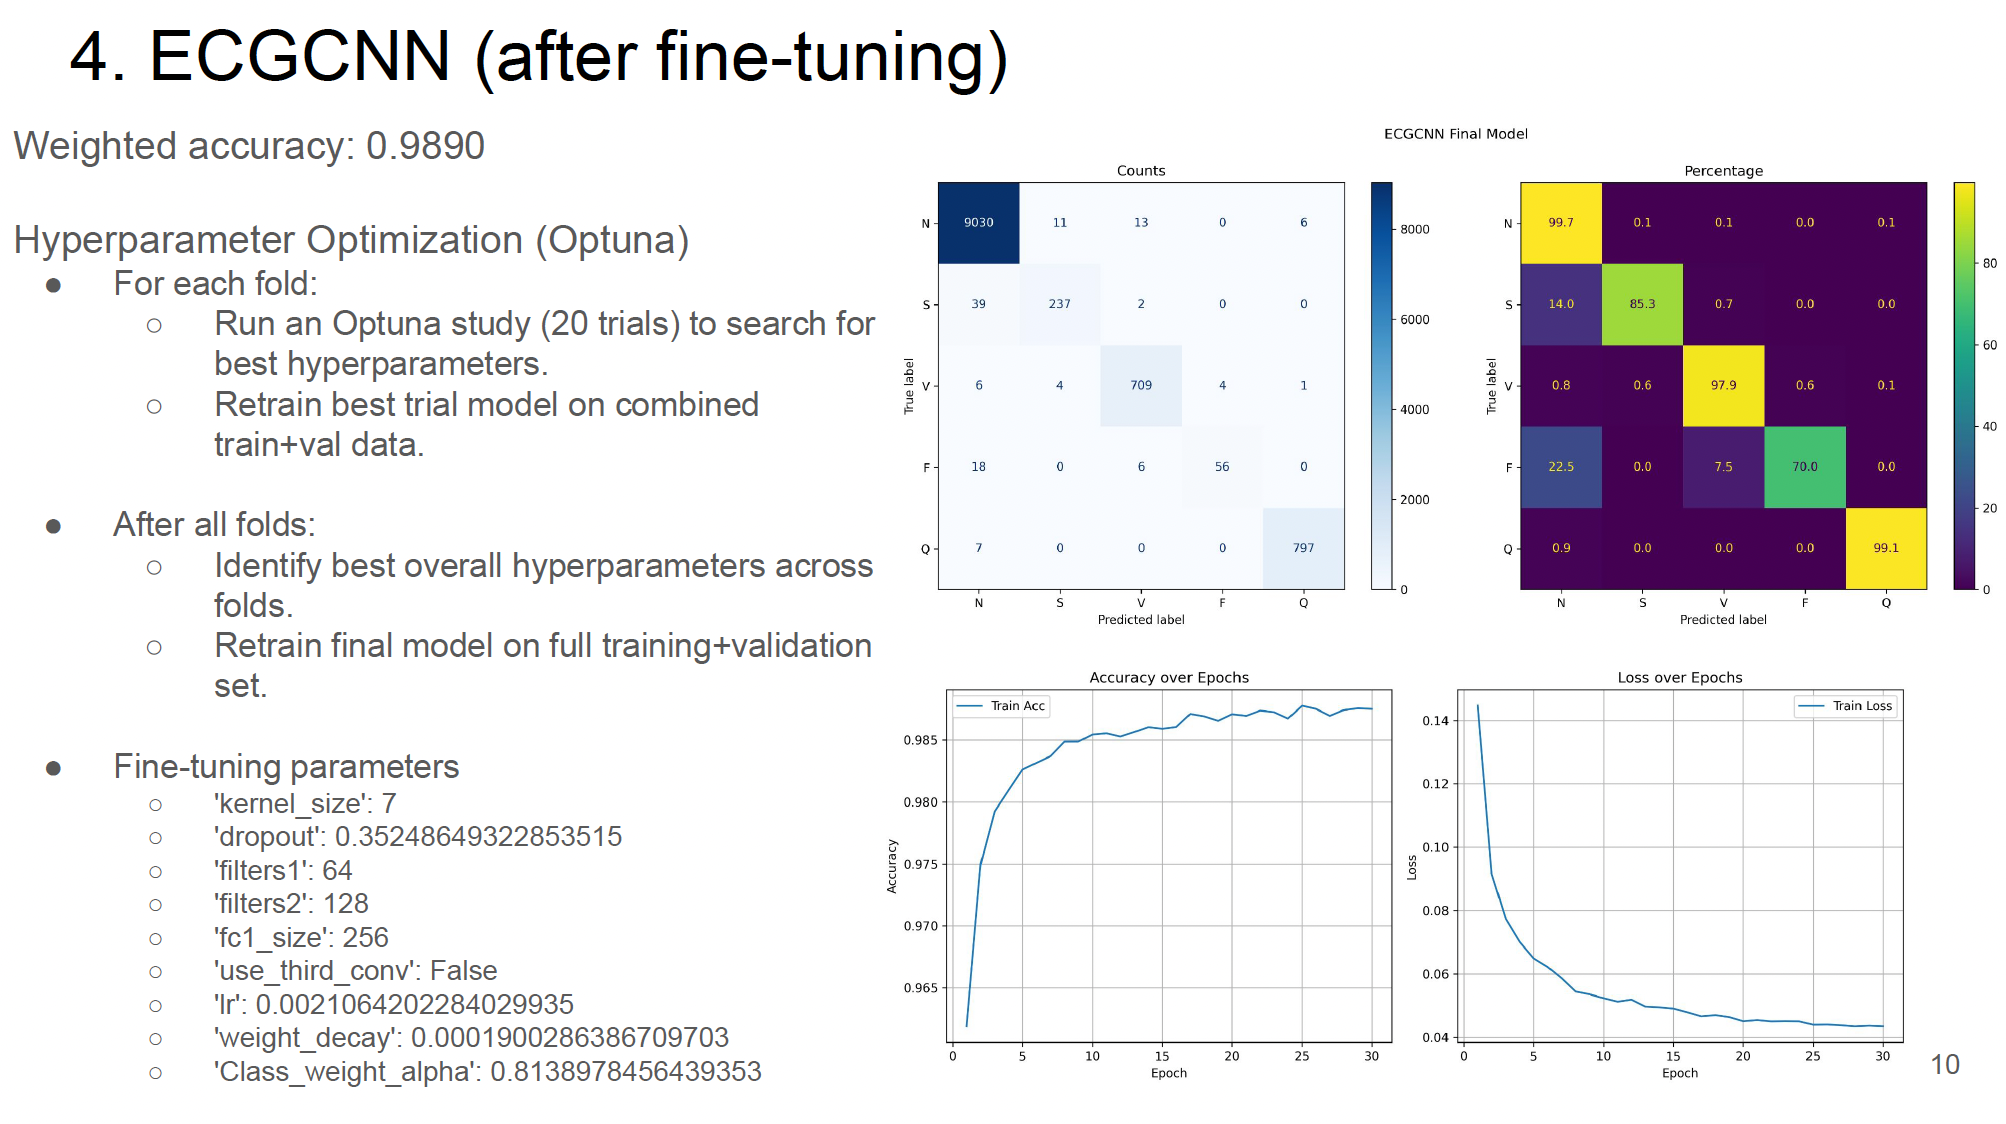
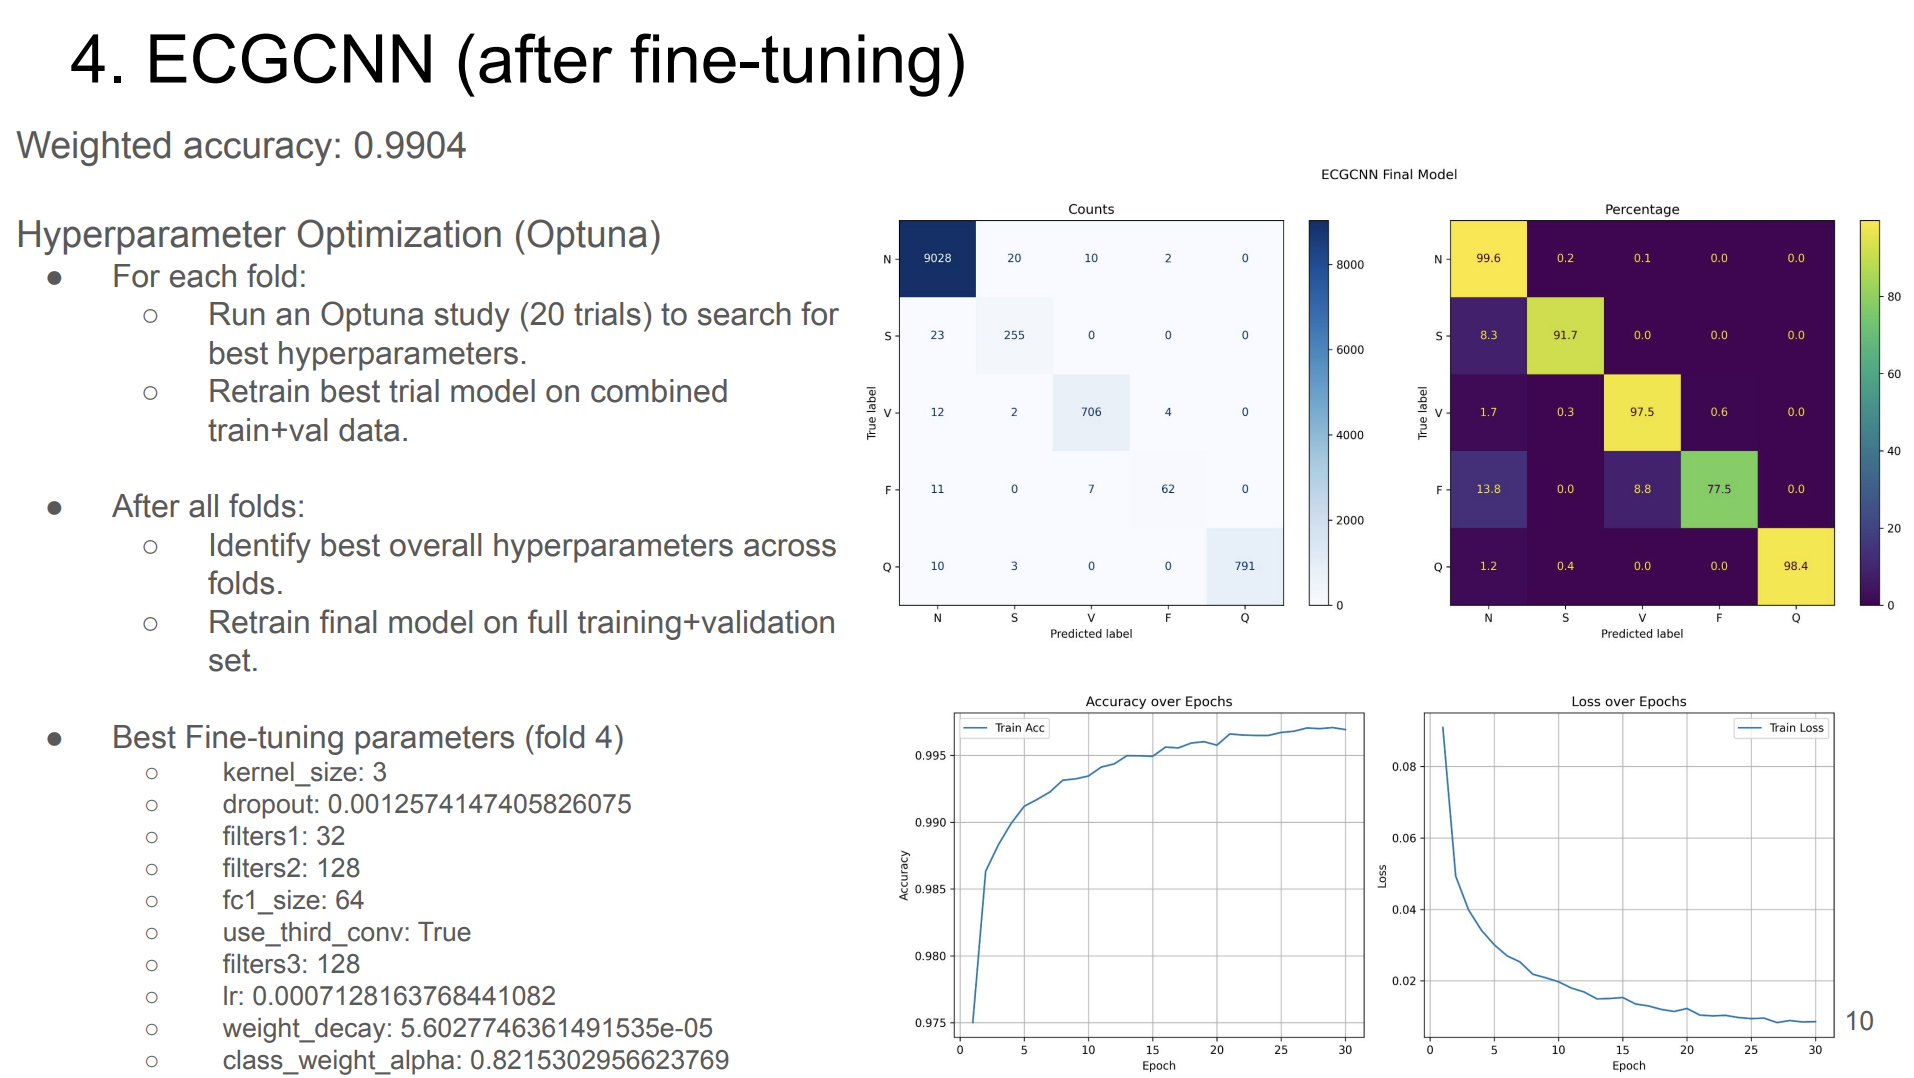
update the slides

diff --git a/mitbih/utils/config.py b/mitbih/utils/config.py
@@ -49,5 +49,5 @@ DATA_DIR = "./data/physionet.org/files/mitdb/1.0.0"
 OUTPUT_DIR = "./results/temp"
 PLOT_DIR = "./results/figures"
 MODEL_SAVE_PATH = os.path.join(OUTPUT_DIR, "ecgcnn_optuna_with_aug_final_retrained.pth")
-STUDY_PATH = os.path.join(OUTPUT_DIR,"ecgcnn_optuna_with_aug_.pkl")
+STUDY_PATH = os.path.join(OUTPUT_DIR,"ecgcnn_optuna_with_aug_fold4.pkl")
 DEMO_PATH = os.path.join(OUTPUT_DIR,"demo_beats.npz")
